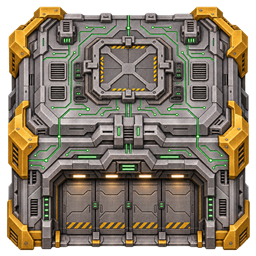
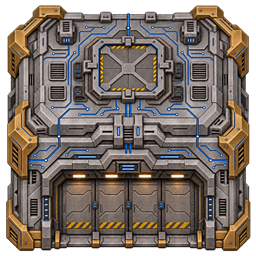
Version: 2.5.8 Date: 27.11.2026   Info:     - This version changes machine recipes and technology prerequisites.       Existing production chains may need adjustments after updating.       Back up your save before updating and review the changes below.   Major Features:     - Added Long-Range Radar 
Changes to be committed:
	modified:   README.md
	modified:   changelog.txt
	modified:   graphics/Tech/Tree/Storage/Elite-Warehouse-Tech.png
	modified:   graphics/entity/Storage/Warehouse/Elite-Warehouse-Circuit.png
	modified:   graphics/icons/Storage/Elite-Warehouse-Circuit.png
	modified:   prototypes/Machinery/Compressor.lua

diff --git a/README.md b/README.md
@@ -29,7 +29,7 @@
 #### Power Generation
 
 - **Steam boilers R2 and R3**: The prototypes specify 15 MW and 60 MW of heating capacity, respectively.
-- **Steam engines R2 and R3**: Higher-tier steam engines with custom fluid handling and effectivity settings. Their prototypes do not specify fixed 3.6 MW or 7.2 MW output ratings.
+- **Steam engines R2 and R3**: Upgraded steam engines for the mod's steam-power production chain.
 - **Solar panels R2–R5**: 600 kW, 6 MW, 36 MW, and 150 MW production, respectively.
 - **Solar panel equipment R2**: 100 kW for armor equipment grids.
 - **Accumulators R2 and R3**: 30 MJ and 50 MJ capacity, respectively.
@@ -82,6 +82,9 @@ The added recipes include:
 
 - **Clean materials**: iron, copper, coal, and steel.
 - **Components**: glue, cable, reinforced components and plates, reinforced gears, and copper gear wheels.
+- **Advanced Intermediate Products**: Azurium, Apatitium, and Amazonium crystals and plates, unlocked through three research tiers.
+- **Electronic components**: Electronic Components, Advanced Electronic Components, and Elite Electronic Components.
+- **Fuses and machine casings**: Fuse, Advanced Fuse, and Elite Fuse, plus Machine Casing, Advanced Machine Casing, and Elite Machine Casing.
 - **Coal products**: Clean Coal (16 MJ), Infused Coal (72 MJ), Enriched Coal (144 MJ), and Infused Enriched Coal (288 MJ). Clean Coal is made from 2 Coal and 20 Pressurized Water in a Washer Chamber, providing twice the coal inputs' combined fuel energy before processing costs.
 - **Infusion tools**: the Infusion Tool is used to make Infused Coal. Through Advanced Infusion research, 2 Enriched Coal and 1 Advanced Infusion Tool produce 2 Infused Enriched Coal in 4 seconds in a Formation Furnace: 576 MJ of output fuel from 288 MJ in coal inputs, before processing costs. The tool is consumed.
 - **Rocket Fuel alternatives**: three Enrichment Chamber recipes use Clean Coal R1 with heavy oil, Infused Coal with diesel, or Enriched Coal. They produce 1, 2, or 3 Rocket Fuel, respectively.
@@ -89,6 +92,7 @@ The added recipes include:
 - **Crystalline silicon products** for the solar panel production chain.
 
 These materials are used in the mod's machinery, power, storage, and robot recipes.
+Azurium-based parts support the first material tier, Apatitium-based parts support advanced upgrades, and Amazonium-based parts support selected elite equipment and machines.
 
 ---------------------------------------------------------------------------------------------------
 
